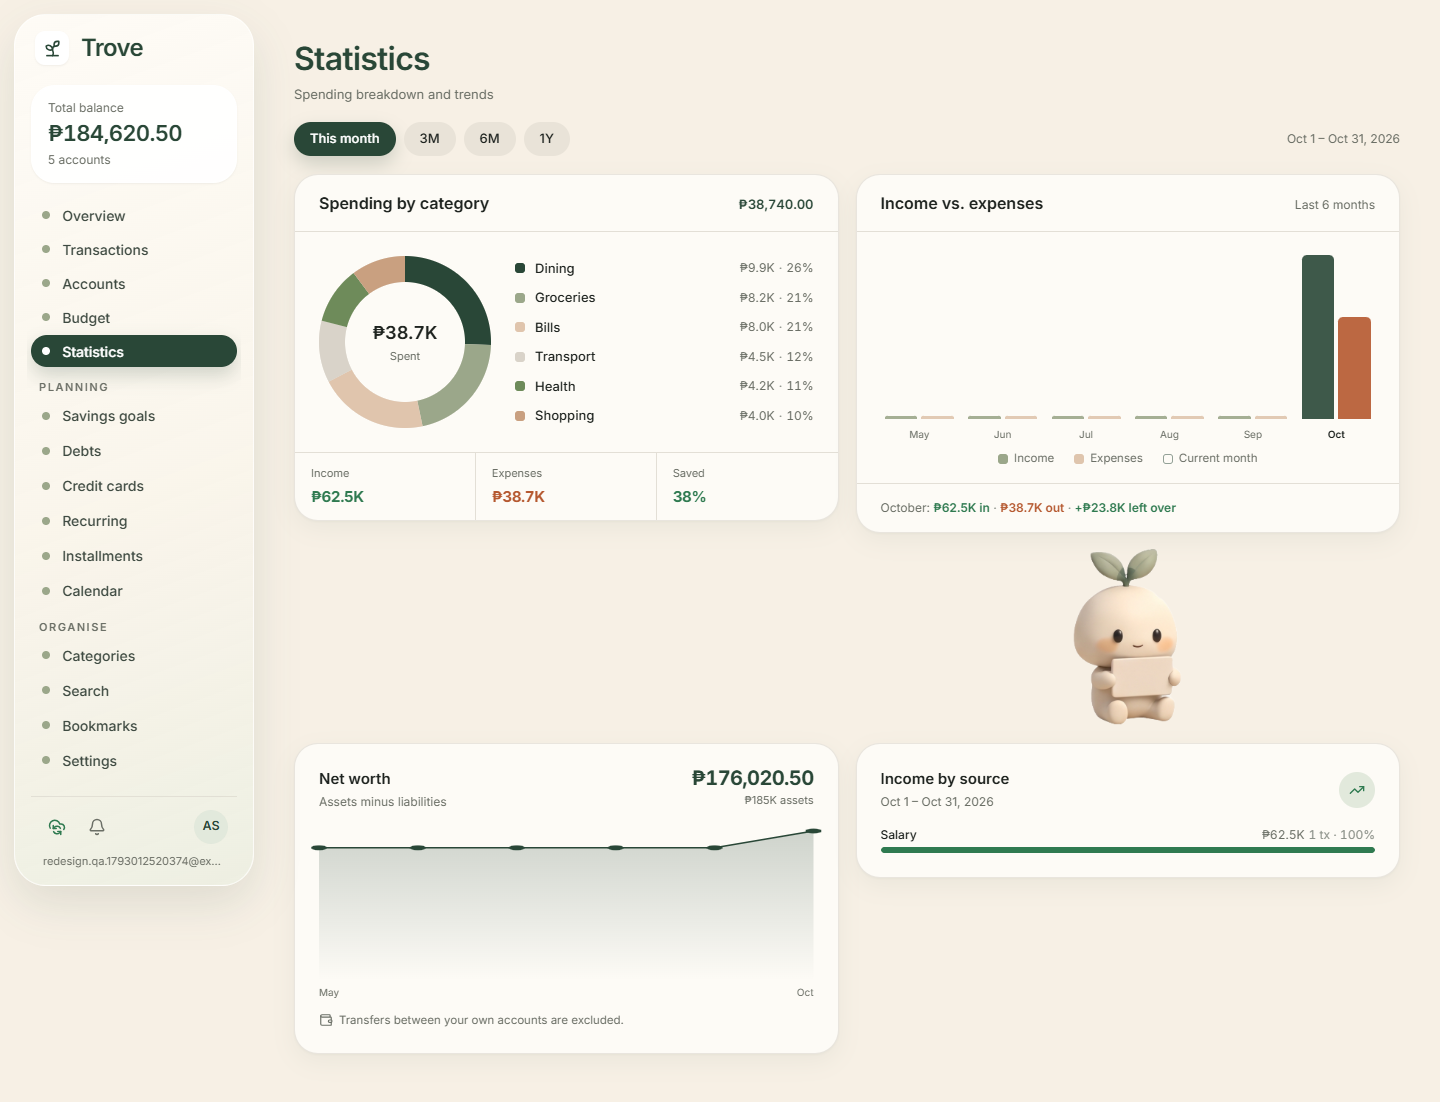
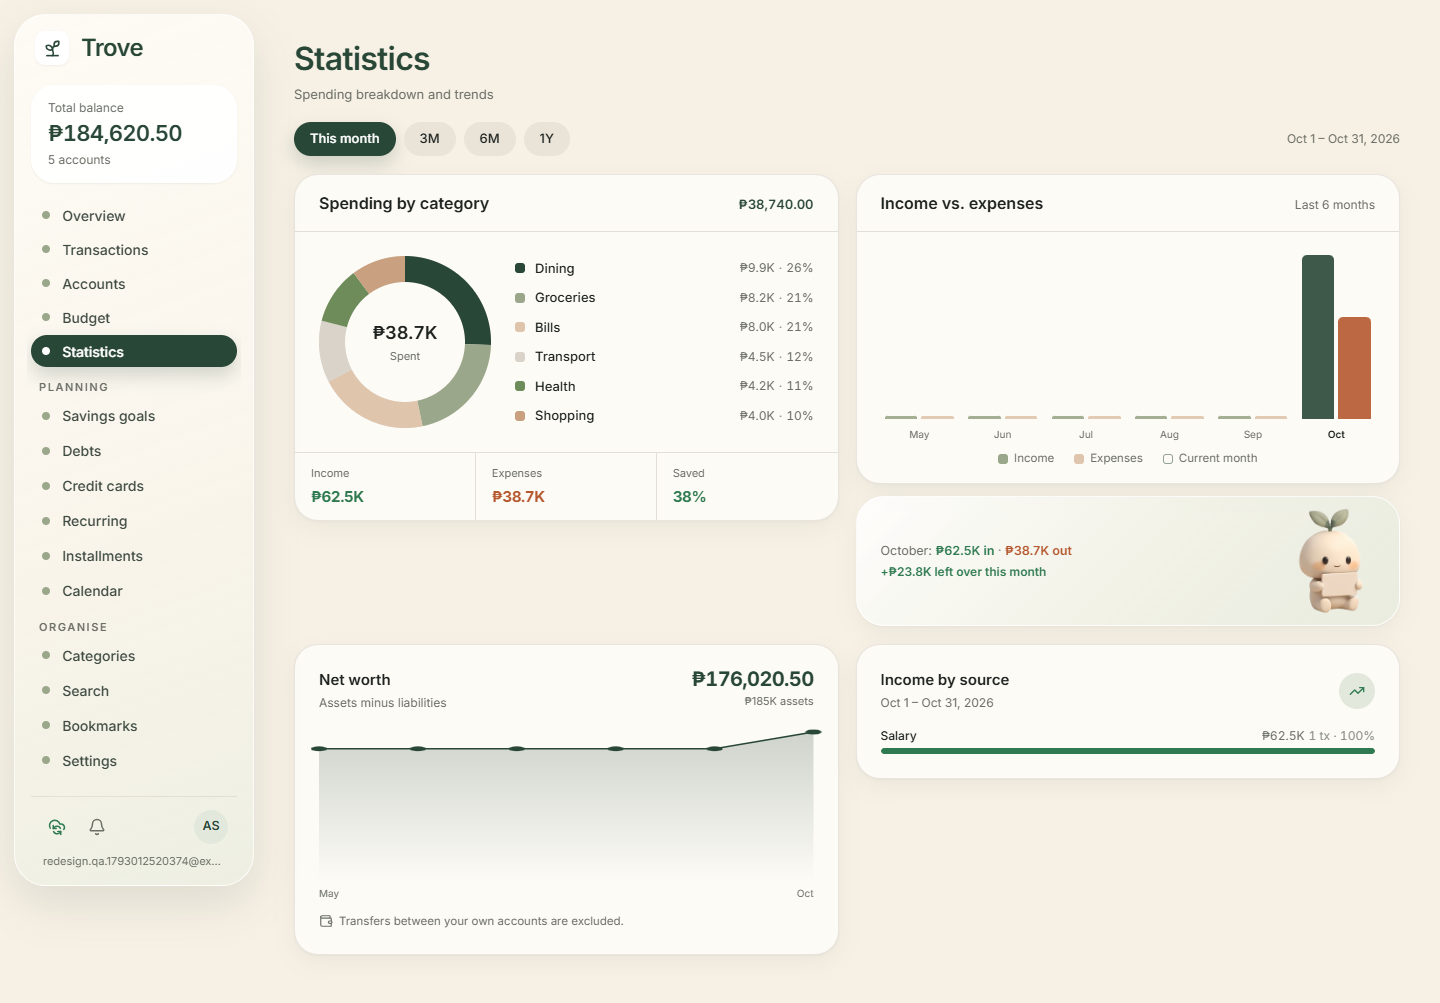
fix(ui): anchor statistics mascot to the monthly summary

diff --git a/web/src/features/statistics/StatisticsPage.tsx b/web/src/features/statistics/StatisticsPage.tsx
@@ -322,29 +322,34 @@ export function StatisticsPage() {
               </span>
             </div>
 
-            <p className="border-t border-line/70 px-5 py-3.5 text-[12px] leading-5 text-muted sm:px-6">
-              {now.toLocaleDateString(undefined, { month: "long" })}:{" "}
-              <span className="font-semibold text-income">
-                {formatMoney(currentMonth.income, currency, { compact: true })} in
-              </span>{" "}
-              <span className="text-faint">·</span>{" "}
-              <span className="font-semibold text-expense">
-                {formatMoney(currentMonth.expense, currency, { compact: true })} out
-              </span>{" "}
-              <span className="text-faint">·</span>{" "}
-              <span className={currentMonth.net >= 0 ? "font-semibold text-income" : "font-semibold text-expense"}>
-                {currentMonth.net >= 0 ? "+" : "−"}
-                {formatMoney(Math.abs(currentMonth.net), currency, { compact: true })} left over
-              </span>
-            </p>
           </SurfaceCard>
 
-          <div className="hidden justify-center pt-1 lg:flex">
-            <Mascot state="statistics" size={176} />
-          </div>
-          <div className="flex justify-center lg:hidden">
-            <Mascot state="statistics" size={138} />
-          </div>
+          {/* The month's one-line reading, with the mascot anchored to it rather
+              than left floating in the gap between report cards. */}
+          <GlassPanel className="flex items-center gap-3 py-3 pl-5 pr-3 sm:pl-6 sm:pr-4">
+            <div className="min-w-0 flex-1">
+              <p className="text-[12.5px] leading-5 text-muted">
+                {now.toLocaleDateString(undefined, { month: "long" })}:{" "}
+                <span className="font-semibold text-income">
+                  {formatMoney(currentMonth.income, currency, { compact: true })} in
+                </span>{" "}
+                <span className="text-faint">·</span>{" "}
+                <span className="font-semibold text-expense">
+                  {formatMoney(currentMonth.expense, currency, { compact: true })} out
+                </span>
+              </p>
+              <p
+                className={`mt-0.5 text-[12px] font-semibold ${
+                  currentMonth.net >= 0 ? "text-income" : "text-expense"
+                }`}
+              >
+                {currentMonth.net >= 0 ? "+" : "−"}
+                {formatMoney(Math.abs(currentMonth.net), currency, { compact: true })} left over
+                this month
+              </p>
+            </div>
+            <Mascot state="statistics" size={104} className="shrink-0" />
+          </GlassPanel>
         </div>
       </div>
 

diff --git a/docs/redesign-progress.md b/docs/redesign-progress.md
@@ -54,6 +54,7 @@ Branch: `redesign/spec`. Presentation only: no API, store, sync, auth or calcula
 - [x] Budget mobile one column
 - [x] Statistics desktop donut + paired bars + mascot
 - [x] Statistics mobile range pills + donut + legend + bars + mascot
+- [x] Statistics mascot anchored to the monthly summary strip (no floating gap)
 - [x] Loading, empty, error, offline for all four
 
 ### 5. Savings goals, Debts, Credit cards, Recurring, Installments, Calendar
